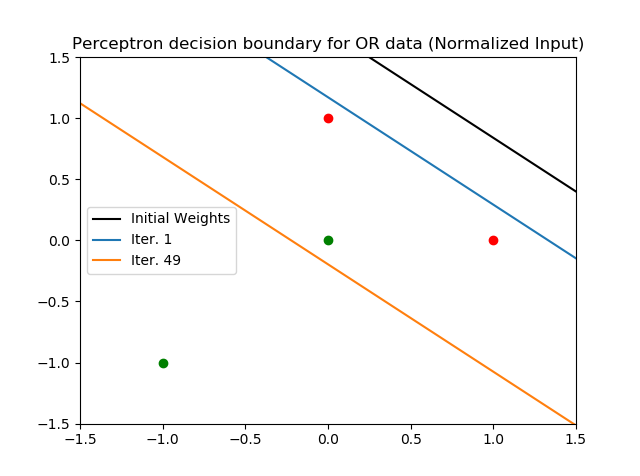
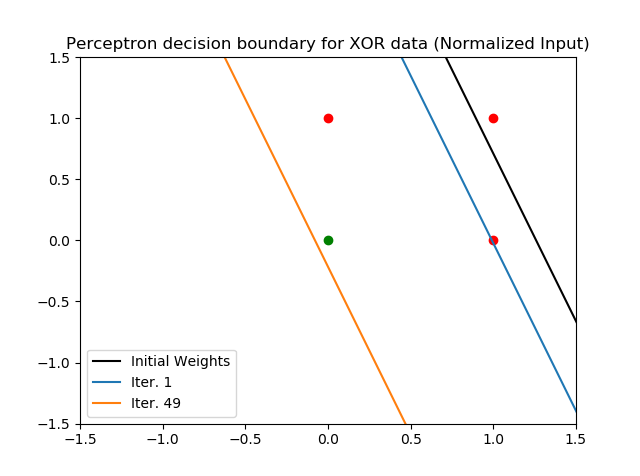
Fixed perceptron figures

diff --git a/docs/assignment-6/src/2/percept_b.py b/docs/assignment-6/src/2/percept_b.py
@@ -185,7 +185,7 @@ print(aug_norm_or_d[:, 2])
 plt.scatter(0, 0, c='green')
 plt.scatter(0, 1, c='r')
 plt.scatter(1, 0, c='r')
-plt.scatter(-1, -1, c='green')
+plt.scatter(1, 1, c='r')
 
 # Plot initial weights
 x_p = np.linspace(-4, 4, 1000)
@@ -193,7 +193,7 @@ plt.plot(x_p, (-1 * weights[1] * x_p + weights[0]) / (weights[2]), c='black', la
 
 for i in range(num_epoch):
     # Load the whole dataset
-    for (b, x, y, l) in aug_norm_xor_d:
+    for (b, x, y, l) in aug_norm_or_d:
 
         # Classify the loaded point using weights in step i - 1
         output = weights[1] * x + weights[2] * y + weights[0] * b
